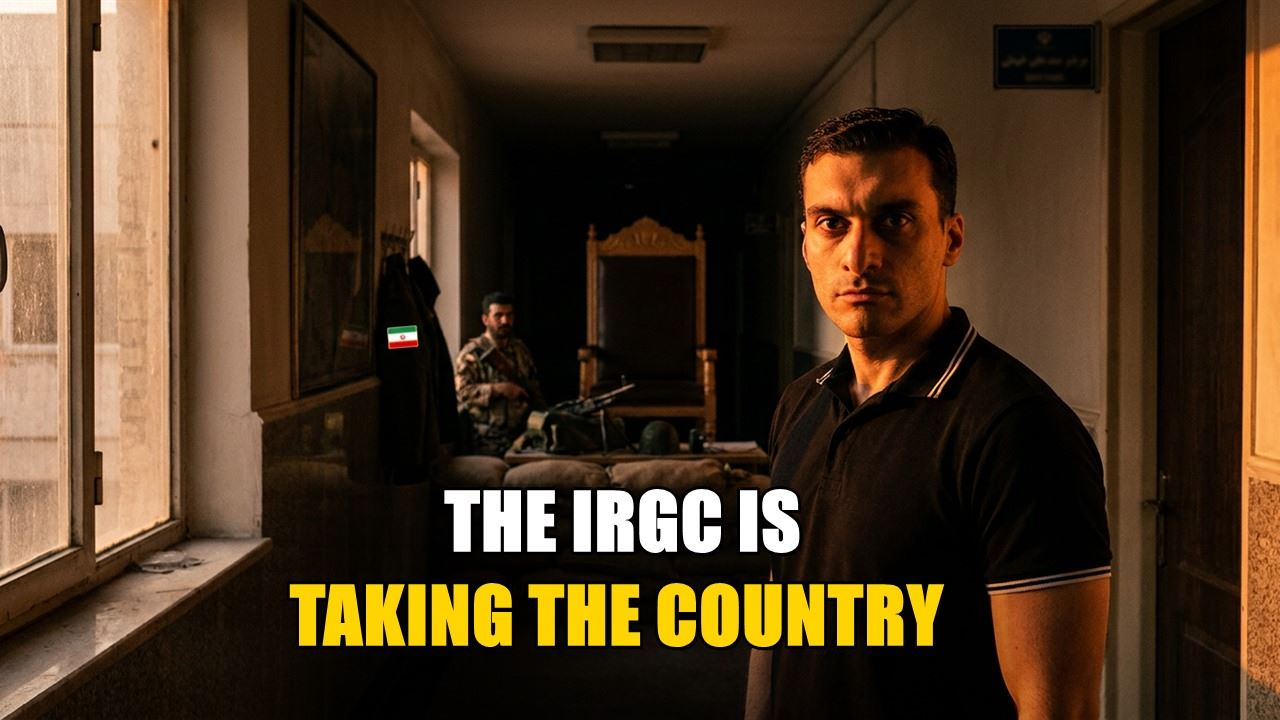
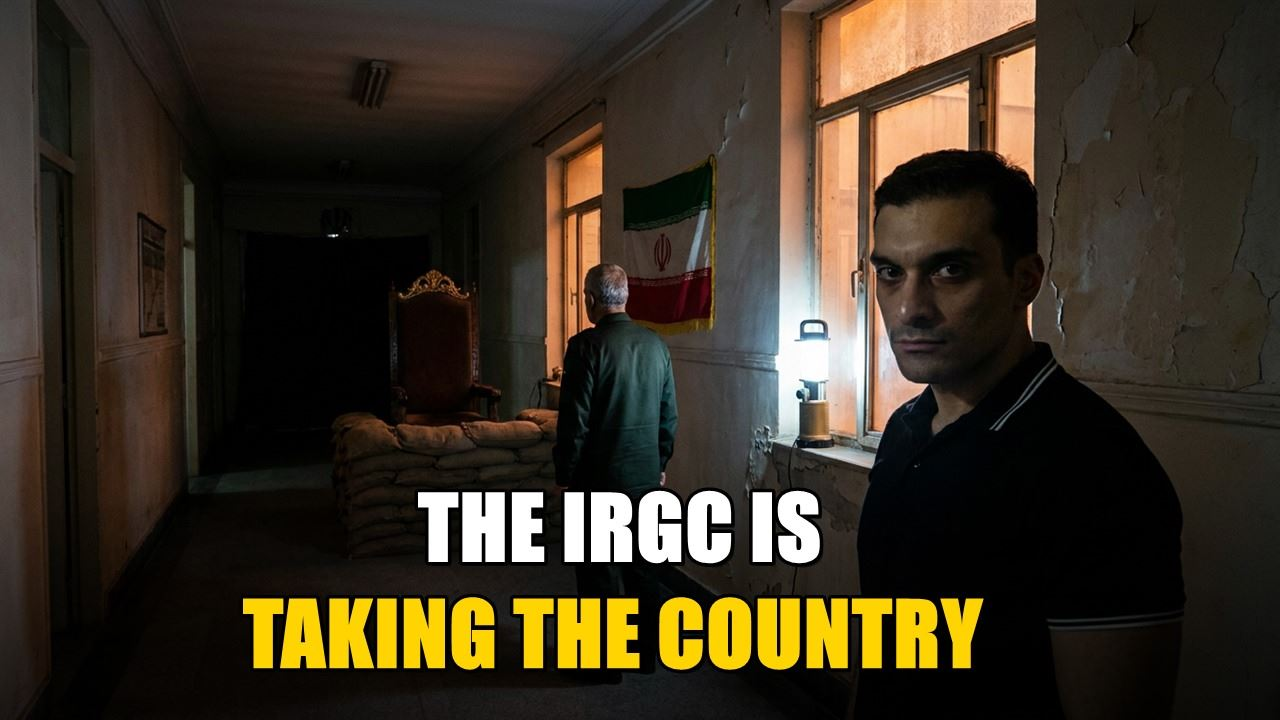
dashboards 2026-08-20T00:29:51Z

diff --git a/armin-shows.html b/armin-shows.html
@@ -270,13 +270,13 @@ dialog img{display:block;max-width:94vw;max-height:88vh}
 </header>
 
 <!-- Self-checking freshness banner: the page compares its own build time against the clock. -->
-<div id="freshbar" class="fresh" data-built="2026-08-20T00:05:33Z">
+<div id="freshbar" class="fresh" data-built="2026-08-20T00:29:48Z">
   <div class="fresh-l">
-    <b id="freshtitle">This page was updated Thu Aug 20, 08:05</b>
+    <b id="freshtitle">This page was updated Thu Aug 20, 08:29</b>
     <span id="freshage"></span>
   </div>
-  <span class="newtoday" id="newtoday" data-new="2"
-        title="Clips whose covers finished in the last 24 hours">New today: 2</span>
+  <span class="newtoday" id="newtoday" data-new="3"
+        title="Clips whose covers finished in the last 24 hours">New today: 3</span>
   <button type="button" id="freshreload" class="fresh-btn" hidden>Get the newest version</button>
 </div>
 
@@ -580,8 +580,32 @@ Join our daily group calls: https://www.skool.com/libertypolitics/about</p>
     <div class="vidwhy" hidden><textarea class="vidtext" rows="2" placeholder="Why are you not using this video? e.g. it starts in the middle of a sentence; it repeats the same point twice; the ending is cut off"></textarea></div>
     <div class="means none" aria-live="polite">Not answered yet.</div>
   </div>
-  <div class="cliptime">Added Aug 16 &middot; Covers made Aug 18 &middot; Ready Aug 16 &middot; <b>5:45</b> <span class="nomid">no mid-roll</span></div>
+  <div class="cliptime">Added Aug 16 &middot; Covers made Aug 19 &middot; Ready Aug 16 &middot; <b>5:45</b> <span class="nomid">no mid-roll</span></div>
   <div class="covers">
+    <div class="cov" data-var="A" data-head="EXAGGERATING THE REGIME HELPS THE REGIME" data-title="EXAGGERATING THE REGIME HELPS THE REGIME">
+      <button class="zoombtn" type="button" aria-label="Enlarge cover A"><img src="img/2026-08-16-english-S7-A.jpg" alt="Cover A: EXAGGERATING THE REGIME HELPS THE REGIME" loading="lazy"><span class="zoomhint">Tap to enlarge</span></button>
+      <div class="covdec">
+        <div class="decq">&#128444;&#65039; This cover A</div>
+        <div class="decbtns">
+          <button class="db covdb" type="button" data-d="yes" aria-pressed="false">Using it</button>
+          <button class="db covdb" type="button" data-d="no" aria-pressed="false">Not using it</button>
+        </div>
+      </div>
+      <div class="ttlline"><b>A</b> - EXAGGERATING THE REGIME HELPS THE REGIME</div>
+      <div class="covdec">
+        <div class="decq">&#9999;&#65039; This title A</div>
+        <div class="decbtns">
+          <button class="db ttldb" type="button" data-d="yes" aria-pressed="false">Using it</button>
+          <button class="db ttldb" type="button" data-d="no" aria-pressed="false">Not using it</button>
+        </div>
+      </div>
+      <div class="ttlwhy" hidden><textarea class="ttltext" rows="2" placeholder="Why not this title? A few words is enough. e.g. it says secret and nobody said secret; it is about the last 20 seconds, not the video"></textarea></div>
+      <div class="covacts">
+        <button class="minibtn" type="button" data-copy="title">Copy title</button>
+        <a class="minibtn dlbtn" download="EXAGGERATING THE REGIME HELPS THE REGIME - A.jpg" href="#" title="EXAGGERATING THE REGIME HELPS THE REGIME - A.jpg">Save this cover</a>
+      </div>
+      <div class="covwhy" hidden><textarea class="whytext" rows="2" placeholder="Why not this cover? A few words is enough. e.g. that is not Armin, text covers his face, the hosts are too small"></textarea></div>
+    </div>
     <div class="cov" data-var="B" data-head="THE TRUTH IS ALREADY ENOUGH" data-title="THE TRUTH IS ALREADY ENOUGH">
       <button class="zoombtn" type="button" aria-label="Enlarge cover B"><img src="img/2026-08-16-english-S7-B.jpg" alt="Cover B: THE TRUTH IS ALREADY ENOUGH" loading="lazy"><span class="zoomhint">Tap to enlarge</span></button>
       <div class="covdec">
@@ -670,9 +694,80 @@ Join our daily group calls: https://www.skool.com/libertypolitics/about</p>
     <div class="vidwhy" hidden><textarea class="vidtext" rows="2" placeholder="Why are you not using this video? e.g. it starts in the middle of a sentence; it repeats the same point twice; the ending is cut off"></textarea></div>
     <div class="means none" aria-live="polite">Not answered yet.</div>
   </div>
-  <div class="cliptime">Added Aug 16 &middot; Ready Aug 16 &middot; <b>2:24</b> <span class="nomid">no mid-roll</span></div>
-  <div class="pending">No covers on this clip yet. See rework-queue.json for its status - do not assume work is in progress.</div>
+  <div class="cliptime">Added Aug 16 &middot; Covers made Aug 19 &middot; Ready Aug 16 &middot; <b>2:24</b> <span class="nomid">no mid-roll</span></div>
   <div class="covers">
+    <div class="cov" data-var="A" data-head="THE BOOTS ARE BEATING THE TURBANS" data-title="THE BOOTS ARE BEATING THE TURBANS">
+      <button class="zoombtn" type="button" aria-label="Enlarge cover A"><img src="img/2026-08-16-english-S10-A.jpg" alt="Cover A: THE BOOTS ARE BEATING THE TURBANS" loading="lazy"><span class="zoomhint">Tap to enlarge</span></button>
+      <div class="covdec">
+        <div class="decq">&#128444;&#65039; This cover A</div>
+        <div class="decbtns">
+          <button class="db covdb" type="button" data-d="yes" aria-pressed="false">Using it</button>
+          <button class="db covdb" type="button" data-d="no" aria-pressed="false">Not using it</button>
+        </div>
+      </div>
+      <div class="ttlline"><b>A</b> - THE BOOTS ARE BEATING THE TURBANS</div>
+      <div class="covdec">
+        <div class="decq">&#9999;&#65039; This title A</div>
+        <div class="decbtns">
+          <button class="db ttldb" type="button" data-d="yes" aria-pressed="false">Using it</button>
+          <button class="db ttldb" type="button" data-d="no" aria-pressed="false">Not using it</button>
+        </div>
+      </div>
+      <div class="ttlwhy" hidden><textarea class="ttltext" rows="2" placeholder="Why not this title? A few words is enough. e.g. it says secret and nobody said secret; it is about the last 20 seconds, not the video"></textarea></div>
+      <div class="covacts">
+        <button class="minibtn" type="button" data-copy="title">Copy title</button>
+        <a class="minibtn dlbtn" download="THE BOOTS ARE BEATING THE TURBANS - A.jpg" href="#" title="THE BOOTS ARE BEATING THE TURBANS - A.jpg">Save this cover</a>
+      </div>
+      <div class="covwhy" hidden><textarea class="whytext" rows="2" placeholder="Why not this cover? A few words is enough. e.g. that is not Armin, text covers his face, the hosts are too small"></textarea></div>
+    </div>
+    <div class="cov" data-var="B" data-head="THE IRGC IS TAKING THE COUNTRY" data-title="THE IRGC IS TAKING THE COUNTRY">
+      <button class="zoombtn" type="button" aria-label="Enlarge cover B"><img src="img/2026-08-16-english-S10-B.jpg" alt="Cover B: THE IRGC IS TAKING THE COUNTRY" loading="lazy"><span class="zoomhint">Tap to enlarge</span></button>
+      <div class="covdec">
+        <div class="decq">&#128444;&#65039; This cover B</div>
+        <div class="decbtns">
+          <button class="db covdb" type="button" data-d="yes" aria-pressed="false">Using it</button>
+          <button class="db covdb" type="button" data-d="no" aria-pressed="false">Not using it</button>
+        </div>
+      </div>
+      <div class="ttlline"><b>B</b> - THE IRGC IS TAKING THE COUNTRY</div>
+      <div class="covdec">
+        <div class="decq">&#9999;&#65039; This title B</div>
+        <div class="decbtns">
+          <button class="db ttldb" type="button" data-d="yes" aria-pressed="false">Using it</button>
+          <button class="db ttldb" type="button" data-d="no" aria-pressed="false">Not using it</button>
+        </div>
+      </div>
+      <div class="ttlwhy" hidden><textarea class="ttltext" rows="2" placeholder="Why not this title? A few words is enough. e.g. it says secret and nobody said secret; it is about the last 20 seconds, not the video"></textarea></div>
+      <div class="covacts">
+        <button class="minibtn" type="button" data-copy="title">Copy title</button>
+        <a class="minibtn dlbtn" download="THE IRGC IS TAKING THE COUNTRY - B.jpg" href="#" title="THE IRGC IS TAKING THE COUNTRY - B.jpg">Save this cover</a>
+      </div>
+      <div class="covwhy" hidden><textarea class="whytext" rows="2" placeholder="Why not this cover? A few words is enough. e.g. that is not Armin, text covers his face, the hosts are too small"></textarea></div>
+    </div>
+    <div class="cov" data-var="C" data-head="The Supreme Leader Is Now Decoration" data-title="The Supreme Leader Is Now Decoration">
+      <button class="zoombtn" type="button" aria-label="Enlarge cover C"><img src="img/2026-08-16-english-S10-C.jpg" alt="Cover C: The Supreme Leader Is Now Decoration" loading="lazy"><span class="zoomhint">Tap to enlarge</span></button>
+      <div class="covdec">
+        <div class="decq">&#128444;&#65039; This cover C</div>
+        <div class="decbtns">
+          <button class="db covdb" type="button" data-d="yes" aria-pressed="false">Using it</button>
+          <button class="db covdb" type="button" data-d="no" aria-pressed="false">Not using it</button>
+        </div>
+      </div>
+      <div class="ttlline"><b>C</b> - The Supreme Leader Is Now Decoration</div>
+      <div class="covdec">
+        <div class="decq">&#9999;&#65039; This title C</div>
+        <div class="decbtns">
+          <button class="db ttldb" type="button" data-d="yes" aria-pressed="false">Using it</button>
+          <button class="db ttldb" type="button" data-d="no" aria-pressed="false">Not using it</button>
+        </div>
+      </div>
+      <div class="ttlwhy" hidden><textarea class="ttltext" rows="2" placeholder="Why not this title? A few words is enough. e.g. it says secret and nobody said secret; it is about the last 20 seconds, not the video"></textarea></div>
+      <div class="covacts">
+        <button class="minibtn" type="button" data-copy="title">Copy title</button>
+        <a class="minibtn dlbtn" download="The Supreme Leader Is Now Decoration - C.jpg" href="#" title="The Supreme Leader Is Now Decoration - C.jpg">Save this cover</a>
+      </div>
+      <div class="covwhy" hidden><textarea class="whytext" rows="2" placeholder="Why not this cover? A few words is enough. e.g. that is not Armin, text covers his face, the hosts are too small"></textarea></div>
+    </div>
   </div>
   <div class="descbox">
     <div class="lbl">Description</div>

diff --git a/guy-shows.html b/guy-shows.html
@@ -270,9 +270,9 @@ dialog img{display:block;max-width:94vw;max-height:88vh}
 </header>
 
 <!-- Self-checking freshness banner: the page compares its own build time against the clock. -->
-<div id="freshbar" class="fresh" data-built="2026-08-19T23:54:48Z">
+<div id="freshbar" class="fresh" data-built="2026-08-20T00:18:54Z">
   <div class="fresh-l">
-    <b id="freshtitle">This page was updated Thu Aug 20, 07:54</b>
+    <b id="freshtitle">This page was updated Thu Aug 20, 08:18</b>
     <span id="freshage"></span>
   </div>
   <span class="newtoday none" id="newtoday" data-new="0"

diff --git a/ali-costreams.html b/ali-costreams.html
@@ -270,9 +270,9 @@ dialog img{display:block;max-width:94vw;max-height:88vh}
 </header>
 
 <!-- Self-checking freshness banner: the page compares its own build time against the clock. -->
-<div id="freshbar" class="fresh" data-built="2026-08-19T23:54:23Z">
+<div id="freshbar" class="fresh" data-built="2026-08-20T00:18:24Z">
   <div class="fresh-l">
-    <b id="freshtitle">This page was updated Thu Aug 20, 07:54</b>
+    <b id="freshtitle">This page was updated Thu Aug 20, 08:18</b>
     <span id="freshage"></span>
   </div>
   <span class="newtoday" id="newtoday" data-new="5"

diff --git a/guy-picks.html b/guy-picks.html
@@ -1017,7 +1017,7 @@
     <textarea id="report" readonly></textarea>
     <p class="note">Copied. Paste it straight into Telegram.</p>
   </div>
-  <p class="built">50 topics across 6 streams. Updated 2026-08-19T23:54:50Z.</p>
+  <p class="built">50 topics across 6 streams. Updated 2026-08-20T00:18:56Z.</p>
 </div>
 
 <div class="bar">
